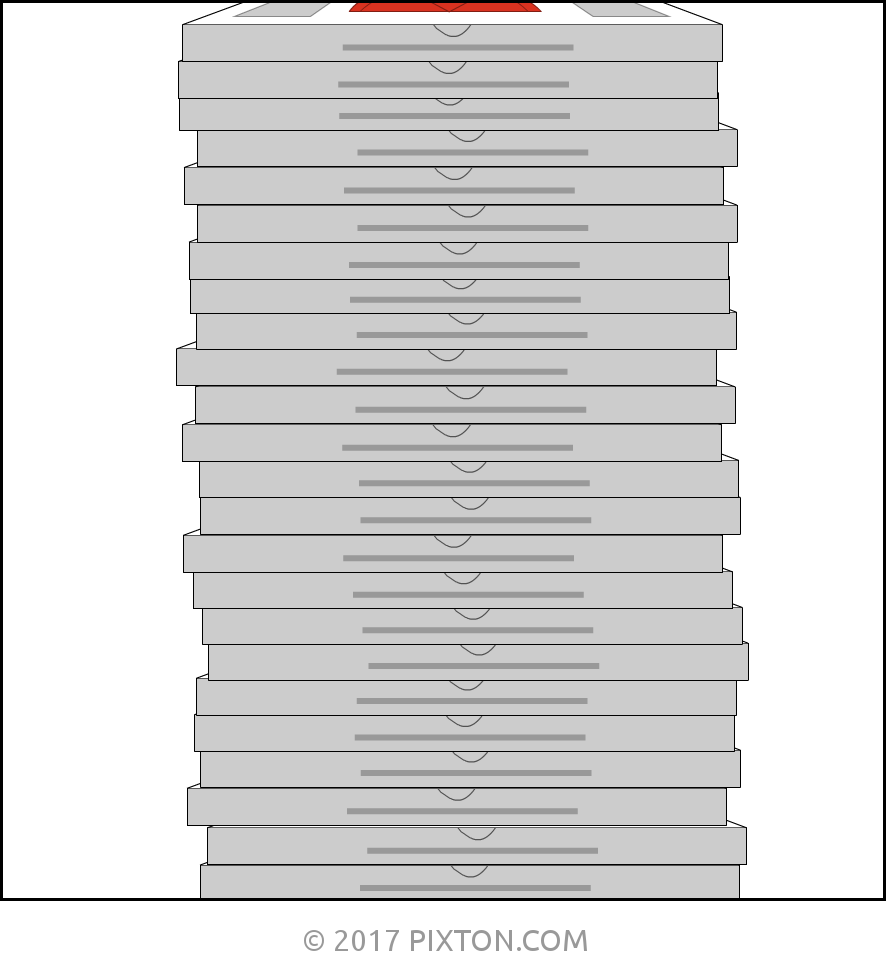
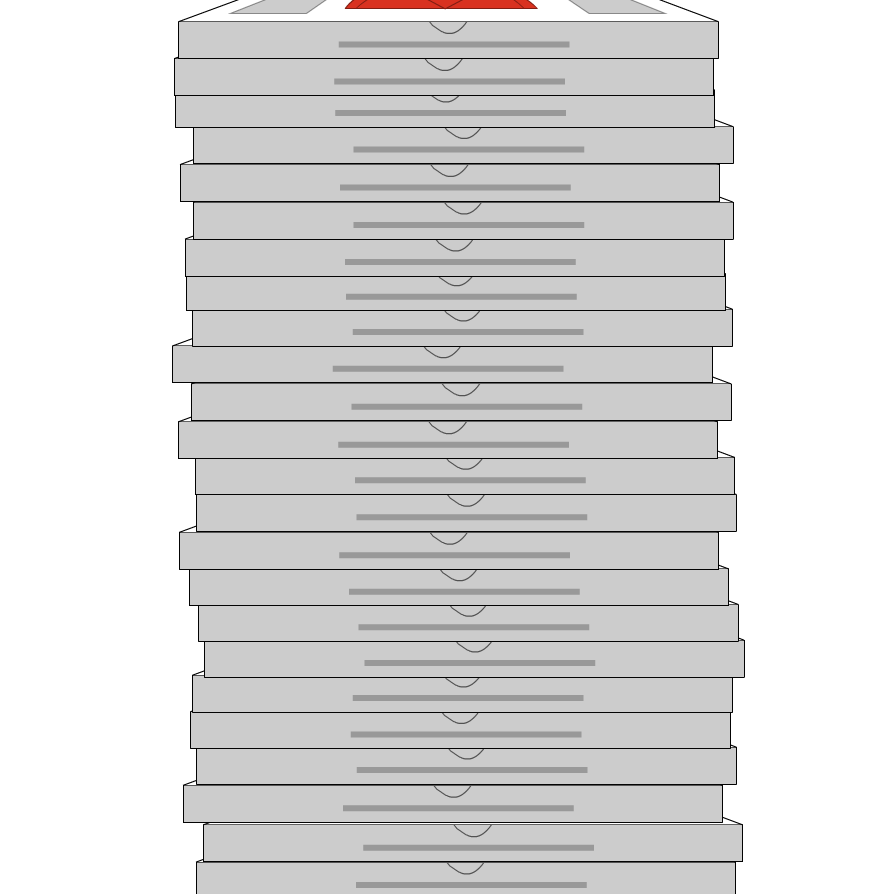
remove border

Changed region(s): [[0.0, 0.0, 1.0, 1.0]]

diff --git a/AmbientPizzaBoxes.html b/AmbientPizzaBoxes.html
@@ -26,7 +26,7 @@
     <script src="https://d3js.org/d3.v4.min.js"></script>
     <script src="https://ajax.googleapis.com/ajax/libs/jquery/2.2.4/jquery.min.js"></script>
     <script src="https://cdn.rawgit.com/ShireeHughes/FoodWasteDisplay/c423c47816567edf6fcf64f63edf8c10acd5d828/JavaScript/liquidFillGauge.js"></script>
-    <script src="https://cdn.rawgit.com/ShireeHughes/FoodWasteDisplay/server-side-calculations/JavaScript/retreiveData.js"></script>
+    <script src="https://cdn.rawgit.com/ShireeHughes/FoodWasteDisplay/827fc8d672e576d0e7ae6a0f4dcfb101489ccb6b/JavaScript/retreiveData.js"></script>
     <script src="https://cdn.rawgit.com/ShireeHughes/FoodWasteDisplay/85f2dc8605d954eb4d3bd315990ec7c7763b70af/JavaScript/graphData.js"></script>
     <script src="https://cdn.rawgit.com/ShireeHughes/FoodWasteDisplay/b1956f542ce864c7267adcf4ee97cc6d5e622604/JavaScript/ambientTrash.js"></script>
 
@@ -50,8 +50,9 @@
     list-style-type: none;
     padding: 0;
     margin: 0;
+margin-bottom:-4px;
 }
-.pizza-table img { width:150px;}// height: 90px;}
+.pizza-table img { width:350px;}// height: 90px;}
 .pizza-table {width:100px; height:90px; padding:0px; margin-top:0px; margin-bottom:0px;}
 .total-slices {
     position: absolute;
@@ -76,10 +77,6 @@
 			     <tr class="pizza-table"><td id="bottom"></td><td id="bottom-2"></td></tr>
 			  </table>-->
 			  <ul class="inner-table">
-				<li class="pizza-table" id="top"></li>
-				<li class="pizza-table" id="three"></li>
-				<li class="pizza-table" id="two"></li>
-				<li class="pizza-table" id="one"></li>
 				<li class="pizza-table" id="bottom"></li>
 			  </ul>
                        </td>
@@ -174,7 +171,6 @@
 
             //call to retrieve data from MongoDB
             retrieveData();
-	    drawSlices(totalWaste);
 
         /*
          * Function to return max value
@@ -325,12 +321,12 @@
            var pies = Math.floor(numSlices/8);
 	   var slices = numSlices - (8*pies);
 	   var bottom,one,two,three,top,bottom2,one2,two2,three2,top2;
-console.log(pies + " " + slices);
+
  	   if(pies <= 17) { bottom = pies; } 
  	   else {bottom = 17;}
 
  	   if(pies > 17 && pies <= 42) { one = pies-17; } 
- 	   else if(pies > 42) {one = 25;}
+ 	   else if(pies > 42) {one = 25; }
 	   else {one = 0;}
 
 
@@ -346,45 +342,69 @@ console.log(pies + " " + slices);
  	   else if(pies > 117) {top = 25;}
 	   else {top = 0;}
 
-	   if(pies > 117 && pies <= 134) { bottom2 = pies-(17+25+25+25+17); } 
- 	   else if(pies > 134) {bottom2 = 17;}
+	   if(pies > 117 && pies <= 142) { bottom2 = pies-(17+25+25+25+25); } 
+ 	   else if(pies > 142) {bottom2 = 25;}
 	   else {bottom2 = 0;}
 
-	   if(pies > 134 && pies <= 159) { one2 = pies-(17+25+25+25+17+25); } 
- 	   else if(pies > 159) {one2 = 25;}
+	   if(pies > 142 && pies <= 167) { one2 = pies-(17+25+25+25+25+25); } 
+ 	   else if(pies > 167) {one2 = 25;}
 	   else {one2 = 0;}
 
-	   if(pies > 159 && pies <= 184) { two2 = pies-(17+25+25+25+17+25+25); } 
- 	   else if(pies > 184) {two2 = 25;}
+	   if(pies > 167 && pies <= 192) { two2 = pies-(17+25+25+25+25+25+25); } 
+ 	   else if(pies > 192) {two2 = 25;}
 	   else {two2 = 0;}
 
-	   if(pies > 184 && pies <= 211) { three2 = pies-(17+25+25+25+17+25+25+25); } 
- 	   else if(pies > 211) {three2 = 25;}
+	   if(pies > 192 && pies <= 217) { three2 = pies-(17+25+25+25+25+25+25+25); } 
+ 	   else if(pies > 217) {three2 = 25;}
 	   else {three2 = 0;}
 
-	   if(pies > 211 && pies <= 236) { top2 = pies-(17+25+25+25+17+25+25+25+25); } 
- 	   else if(pies > 236) {top2 = 25;}
+	   if(pies > 217 && pies <= 242) { top2 = pies-(17+25+25+25+25+25+25+25+25); } 
+ 	   else if(pies > 242) {top2 = 25;}
 	   else {top2 = 0;}
 
 	
 	   //write total
 	   $(".total-slices").html("<center>" + numSlices + " slices<br />" + "or<br />" + numSlices/8 + " Pizzas</center>");
 	   //set main image
+           var commitPath = "22f369bcd3be9383ee41687a7d98ffc31c0e1a18";
 	   var imgName = "table-"+slices;
            var bottomName = "side-"+bottom;
-           $(".comic").html("<img src='https://github.com/ShireeHughes/FoodWasteDisplay/blob/pizza-boxes/Images/" + imgName + ".png?raw=true' alt='hi' class='inline'/>");
+           var innerHTML;
 
+           $(".comic").html("<img src='https://github.com/ShireeHughes/FoodWasteDisplay/blob/" + commitPath + "/Images/" + imgName + ".png?raw=true' alt='hi' class='inline'/>");
 	   //set side images
-           $("#bottom").html("<img src='https://github.com/ShireeHughes/FoodWasteDisplay/blob/pizza-boxes/Images/side-" + bottom + ".png?raw=true' alt='hi' class='inline'/>");
-           $("#one").html("<img src='https://github.com/ShireeHughes/FoodWasteDisplay/blob/pizza-boxes/Images/Panel-" + one + ".png?raw=true' alt='hi' class='inline'/>");
-           $("#two").html("<img src='https://github.com/ShireeHughes/FoodWasteDisplay/blob/pizza-boxes/Images/Panel-" + two + ".png?raw=true' alt='hi' class='inline'/>");
-           $("#three").html("<img src='https://github.com/ShireeHughes/FoodWasteDisplay/blob/pizza-boxes/Images/Panel-" + three + ".png?raw=true' alt='hi' class='inline'/>");
-	   $("#bottom-2").html("<img src='https://github.com/ShireeHughes/FoodWasteDisplay/blob/pizza-boxes/Images/side-" + bottom2 + ".png?raw=true' alt='hi' class='inline'/>");
-           $("#one-2").html("<img src='https://github.com/ShireeHughes/FoodWasteDisplay/blob/pizza-boxes/Images/Panel-" + one2 + ".png?raw=true' alt='hi' class='inline'/>");
-           $("#two-2").html("<img src='https://github.com/ShireeHughes/FoodWasteDisplay/blob/pizza-boxes/Images/Panel-" + two2 + ".png?raw=true' alt='hi' class='inline'/>");
-           $("#three-2").html("<img src='https://github.com/ShireeHughes/FoodWasteDisplay/blob/pizza-boxes/Images/Panel-" + three2 + ".png?raw=true' alt='hi' class='inline'/>");
-           $("#top").html("<img src='https://github.com/ShireeHughes/FoodWasteDisplay/blob/pizza-boxes/Images/Panel-" + top + ".png?raw=true' alt='hi' class='inline'/>");
-           $("#top-2").html("<img src='https://github.com/ShireeHughes/FoodWasteDisplay/blob/pizza-boxes/Images/Panel-" + top2 + ".png?raw=true' alt='hi' class='inline'/>");
+           $("#bottom").html("<img src='https://github.com/ShireeHughes/FoodWasteDisplay/blob/" + commitPath + "/Images/side-" + bottom + ".png?raw=true' alt='hi' class='inline'/>");
+
+	   if(one > 0) {
+	       innerHTML = $(".inner-table").html();
+	       if(innerHTML.indexOf("one") == -1) {
+	               $(".inner-table").html("<li class='pizza-table' id='one'></li>"+ innerHTML);
+		}
+               $("#one").html("<img src='https://github.com/ShireeHughes/FoodWasteDisplay/blob/" + commitPath + "/Images/Panel-" + one + ".png?raw=true' alt='hi' class='inline'/>");
+	   }
+
+	   if(two > 0) {
+	       innerHTML = $(".inner-table").html();
+	       if(innerHTML.indexOf("two") == -1) {
+	               $(".inner-table").html("<li class='pizza-table' id='two'></li>"+ innerHTML);
+		}
+           $("#two").html("<img src='https://github.com/ShireeHughes/FoodWasteDisplay/blob/" + commitPath + "/Images/Panel-" + two + ".png?raw=true' alt='hi' class='inline'/>");
+	   }
+
+           if(three > 0) {
+	       innerHTML = $(".inner-table").html();
+	       if(innerHTML.indexOf("three") == -1) {
+	               $(".inner-table").html("<li class='pizza-table' id='three'></li>"+ innerHTML);
+		}
+           $("#three").html("<img src='https://github.com/ShireeHughes/FoodWasteDisplay/blob/" + commitPath + "/Images/Panel-" + three + ".png?raw=true' alt='hi' class='inline'/>");
+           }
+
+	   $("#bottom-2").html("<img src='https://github.com/ShireeHughes/FoodWasteDisplay/blob/" + commitPath + "/Images/side-" + bottom2 + ".png?raw=true' alt='hi' class='inline'/>");
+           $("#one-2").html("<img src='https://github.com/ShireeHughes/FoodWasteDisplay/blob/" + commitPath + "/Images/Panel-" + one2 + ".png?raw=true' alt='hi' class='inline'/>");
+           $("#two-2").html("<img src='https://github.com/ShireeHughes/FoodWasteDisplay/blob/" + commitPath + "/Images/Panel-" + two2 + ".png?raw=true' alt='hi' class='inline'/>");
+           $("#three-2").html("<img src='https://github.com/ShireeHughes/FoodWasteDisplay/blob/" + commitPath + "/Images/Panel-" + three2 + ".png?raw=true' alt='hi' class='inline'/>");
+           $("#top").html("<img src='https://github.com/ShireeHughes/FoodWasteDisplay/blob/" + commitPath + "/Images/Panel-" + top + ".png?raw=true' alt='hi' class='inline'/>");
+           $("#top-2").html("<img src='https://github.com/ShireeHughes/FoodWasteDisplay/blob/" + commitPath + "/Images/Panel-" + top2 + ".png?raw=true' alt='hi' class='inline'/>");
 	}
 
         function tooltipHtml(n, d){	/* function to create html content string in tooltip div. */
